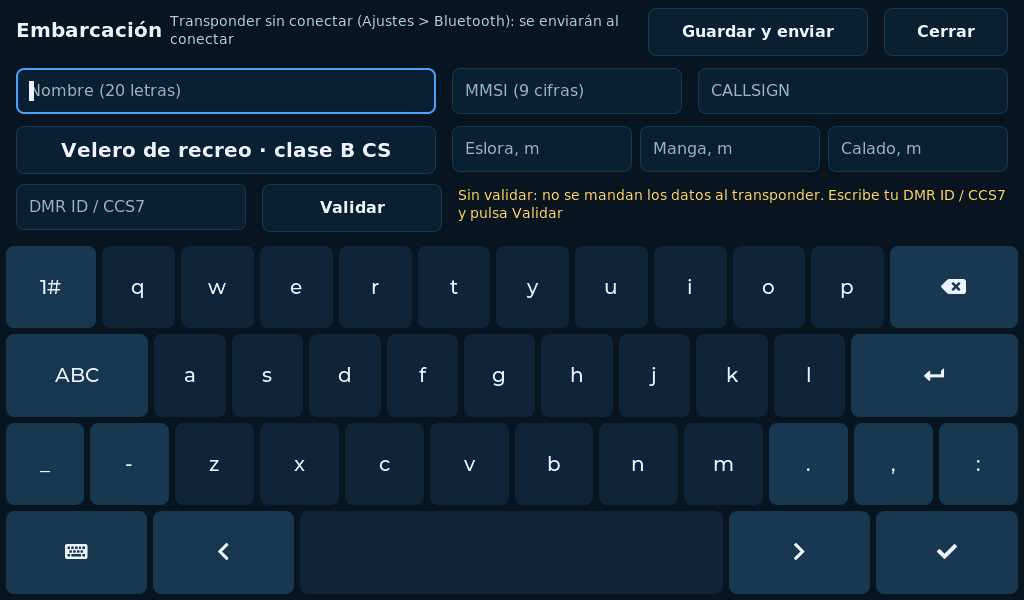
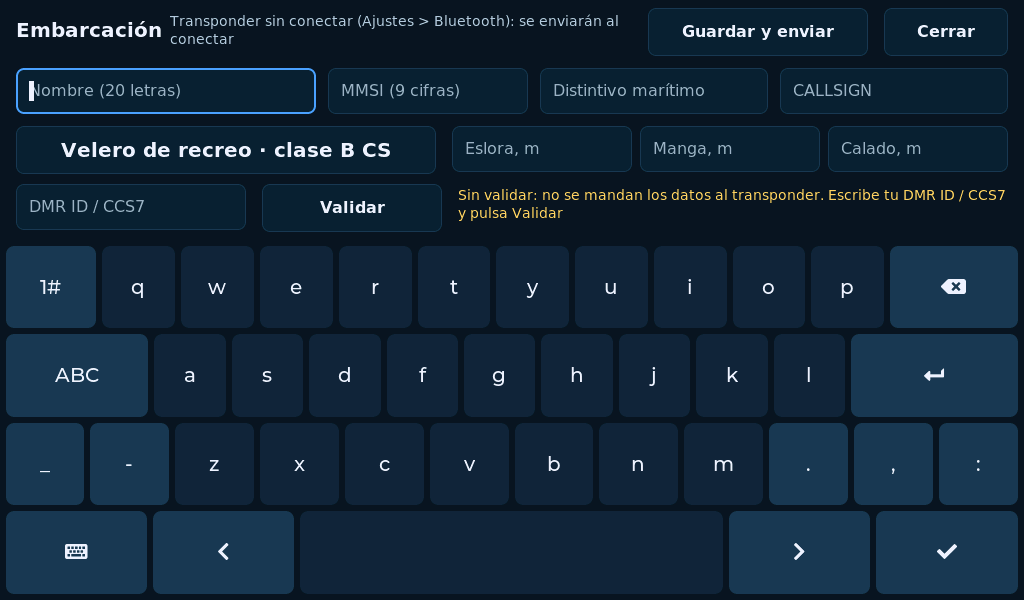
Embarcación: distintivo marítimo del MMSI (campo mc de vessel)
Claude-Session: https://claude.ai/code/session_017B8KvGdeNYekR2x3YiyR1X

Changed region(s): [[0.3125, 0.09, 0.8438, 0.21]]

diff --git a/src/ui.cpp b/src/ui.cpp
@@ -218,7 +218,7 @@ static lv_obj_t* netTa[9] = {};                        // red, clave, servidor, 
 static lv_obj_t* netKb = nullptr;
 static lv_obj_t* netKindLbl = nullptr;
 static lv_obj_t* vesScr = nullptr;                      // Ajustes > Embarcacion
-static lv_obj_t* vesTa[7] = {};                         // nombre, MMSI, CALLSIGN, eslora, manga, calado, DMR ID / CCS7
+static lv_obj_t* vesTa[8] = {};                         // nombre, MMSI, CALLSIGN, eslora, manga, calado, DMR ID / CCS7, distintivo maritimo
 static lv_obj_t* vesLic = nullptr;                      // licencia (RadioID)
 static lv_obj_t* vesKb = nullptr;
 static lv_obj_t* vesTypeLbl = nullptr;
@@ -2021,6 +2021,7 @@ static void openVessel() {
     snprintf(b, sizeof(b), "%09lu", (unsigned long)v.vesselMmsi);
     lv_textarea_set_text(vesTa[1], v.vesselMmsi ? b : "");
     lv_textarea_set_text(vesTa[2], v.vesselCall);
+    lv_textarea_set_text(vesTa[7], v.vesselMCall);
     snprintf(b, sizeof(b), "%d", v.vesselLen);
     lv_textarea_set_text(vesTa[3], v.vesselLen ? b : "");
     snprintf(b, sizeof(b), "%d", v.vesselBeam);
@@ -2048,6 +2049,12 @@ static void onVesBtn(lv_event_t* e) {
         if (!plotter::vessel::validMmsi(v.vesselMmsi)) v.vesselMmsi = 0;
         snprintf(v.vesselCall, sizeof(v.vesselCall), "%s", lv_textarea_get_text(vesTa[2]));
         for (char* c = v.vesselCall; *c; c++) { *c = (char)toupper((unsigned char)*c); if (*c == '-') { *c = 0; break; } }
+        size_t mk = 0;                                    // distintivo maritimo: A-Z 0-9, maximo 7
+        for (const char* c = lv_textarea_get_text(vesTa[7]); *c && mk + 1 < sizeof(v.vesselMCall); c++) {
+            const char u = (char)toupper((unsigned char)*c);
+            if ((u >= 'A' && u <= 'Z') || (u >= '0' && u <= '9')) v.vesselMCall[mk++] = u;
+        }
+        v.vesselMCall[mk] = 0;
         auto clampi = [](int x, int lo, int hi) { return x < lo ? lo : (x > hi ? hi : x); };
         v.vesselLen = clampi(atoi(lv_textarea_get_text(vesTa[3])), 0, 999);
         v.vesselBeam = clampi(atoi(lv_textarea_get_text(vesTa[4])), 0, 126);
@@ -2110,9 +2117,10 @@ static void makeVessel() {
     lv_obj_set_pos(b, 648, 8);
     b = textButton(vesScr, "Cerrar", 124, 48, onVesBtn, 2);
     lv_obj_set_pos(b, 884, 8);
-    vesField(0, 16, 68, 420, "Nombre (20 letras)", 20, nullptr);
-    vesField(1, 452, 68, 230, "MMSI (9 cifras)", 9, "0123456789");
-    vesField(2, 698, 68, 310, "CALLSIGN", 6, nullptr);
+    vesField(0, 16, 68, 300, "Nombre (20 letras)", 20, nullptr);
+    vesField(1, 328, 68, 200, "MMSI (9 cifras)", 9, "0123456789");
+    vesField(7, 540, 68, 228, "Distintivo mar\xC3\xADtimo", 7, nullptr);
+    vesField(2, 780, 68, 228, "CALLSIGN", 6, nullptr);
     b = textButton(vesScr, "", 420, 48, onVesBtn, 0);
     lv_obj_set_pos(b, 16, 126);
     vesTypeLbl = lv_obj_get_child(b, 0);

diff --git a/test/host/test_core.cpp b/test/host/test_core.cpp
@@ -1797,7 +1797,10 @@ static void testVessel() {
     CHECK(configured(a) && !configured(Data()));
     char b[256];
     size_t n = setCommand(a, true, b, sizeof(b));
-    CHECK(n > 0 && std::string(b) == "{\"c\":\"vessel\",\"mmsi\":224123456,\"n\":\"Sea Breeze\",\"call\":\"EA7JRS\",\"t\":0,\"len\":12,\"beam\":4,\"dr\":1.8}");
+    CHECK(n > 0 && std::string(b) == "{\"c\":\"vessel\",\"mmsi\":224123456,\"n\":\"Sea Breeze\",\"call\":\"EA7JRS\",\"mc\":\"\",\"t\":0,\"len\":12,\"beam\":4,\"dr\":1.8}");
+    Data m = a; snprintf(m.mcall, sizeof(m.mcall), "EBXY");
+    setCommand(m, true, b, sizeof(b));
+    CHECK(std::strstr(b, "\"mc\":\"EBXY\"") != nullptr && !same(a, m));
     Data c = a; c.type = 2;
     setCommand(c, true, b, sizeof(b));
     CHECK(std::strstr(b, "\"t\":") == nullptr);                 // clase A a un transpondedor de clase B: sin tipo
@@ -1812,7 +1815,7 @@ static void testVessel() {
     CHECK(std::strstr(b, "\"mmsi\":0,") != nullptr);
 
     Data r; bool cb = false;
-    CHECK(parseEvent("{\"e\":\"vessel\",\"b\":true,\"ok\":true,\"i\":3,\"act\":true,\"call\":\"EA7JRS-5\",\"mmsi\":224123456,\"n\":\"SEA BREEZE\",\"t\":0,\"cls\":\"C\",\"st\":36,\"len\":12,\"beam\":4,\"dr\":1.8}", r, cb));
+    CHECK(parseEvent("{\"e\":\"vessel\",\"b\":true,\"ok\":true,\"i\":3,\"act\":true,\"call\":\"EA7JRS-5\",\"mmsi\":224123456,\"n\":\"SEA BREEZE\",\"mc\":\"\",\"t\":0,\"cls\":\"C\",\"st\":36,\"len\":12,\"beam\":4,\"dr\":1.8}", r, cb));
     CHECK(cb && r.mmsi == 224123456 && std::strcmp(r.name, "SEA BREEZE") == 0 && r.draftDm == 18 && r.lengthM == 12 && r.type == 0);
     CHECK(same(a, r));                                            // SSID y mayusculas no cuentan
     CHECK(!parseEvent("{\"e\":\"vessel\",\"b\":false,\"ok\":false}", r, cb) && !cb);

diff --git a/lib/plotter_core/src/vessel.cpp b/lib/plotter_core/src/vessel.cpp
@@ -55,7 +55,7 @@ bool same(const Data& a, const Data& b) {
     char ca[10], cb[10];
     baseCall(a.call, ca, sizeof(ca));
     baseCall(b.call, cb, sizeof(cb));
-    return a.mmsi == b.mmsi && sameText(a.name, b.name) && strcmp(ca, cb) == 0 && a.type == b.type
+    return a.mmsi == b.mmsi && sameText(a.name, b.name) && strcmp(ca, cb) == 0 && sameText(a.mcall, b.mcall) && a.type == b.type
         && a.lengthM == b.lengthM && a.beamM == b.beamM && a.draftDm == b.draftDm;
 }
 
@@ -68,6 +68,7 @@ size_t setCommand(const Data& d, bool classBOnly, char* out, size_t size) {
     char c[10];
     baseCall(d.call, c, sizeof(c));
     if (c[0]) put(s, "call", c);
+    put(s, "mc", d.mcall);
     if (!classBOnly || classB(d.type)) put(s, "t", (long)d.type);
     put(s, "len", (long)d.lengthM);
     put(s, "beam", (long)d.beamM);
@@ -87,6 +88,7 @@ bool parseEvent(const std::string& line, Data& out, bool& classBOnly) {
     Data d;
     snprintf(d.name, sizeof(d.name), "%s", v["n"].str().c_str());
     snprintf(d.call, sizeof(d.call), "%s", v["call"].str().c_str());
+    snprintf(d.mcall, sizeof(d.mcall), "%s", v["mc"].str().c_str());
     d.mmsi    = (uint32_t)v["mmsi"].num(0);
     d.type    = (int)v["t"].num(0);
     d.lengthM = (int)v["len"].num(0);

diff --git a/src/vessel_link.cpp b/src/vessel_link.cpp
@@ -20,6 +20,7 @@ vessel::Data local() {
     vessel::Data d;
     snprintf(d.name, sizeof(d.name), "%s", v.vesselName);
     snprintf(d.call, sizeof(d.call), "%s", v.vesselCall);
+    snprintf(d.mcall, sizeof(d.mcall), "%s", v.vesselMCall);
     d.mmsi = v.vesselMmsi;
     d.type = v.vesselType;
     d.lengthM = v.vesselLen;
@@ -36,6 +37,7 @@ static void adopt(const vessel::Data& r) {
     for (; r.call[k] && r.call[k] != '-' && k + 1 < sizeof(call); k++) call[k] = r.call[k];
     call[k] = 0;
     snprintf(v.vesselCall, sizeof(v.vesselCall), "%s", call);
+    snprintf(v.vesselMCall, sizeof(v.vesselMCall), "%s", r.mcall);
     v.vesselMmsi = r.mmsi;
     v.vesselType = (r.type >= 0 && r.type < vessel::typeCount()) ? r.type : 0;
     v.vesselLen = r.lengthM;

diff --git a/src/settings.cpp b/src/settings.cpp
@@ -45,6 +45,7 @@ void load() {
     p.getString("vName", v.vesselName, sizeof(v.vesselName));
     v.vesselMmsi = p.getUInt("vMmsi", 0);
     p.getString("vCall", v.vesselCall, sizeof(v.vesselCall));
+    p.getString("vMCall", v.vesselMCall, sizeof(v.vesselMCall));
     v.vesselType = p.getInt("vType", 0);
     v.vesselLen = p.getInt("vLen", 0);
     v.vesselBeam = p.getInt("vBeam", 0);
@@ -103,6 +104,7 @@ void save() {
     p.putString("vName", v.vesselName);
     p.putUInt("vMmsi", v.vesselMmsi);
     p.putString("vCall", v.vesselCall);
+    p.putString("vMCall", v.vesselMCall);
     p.putInt("vType", v.vesselType);
     p.putInt("vLen", v.vesselLen);
     p.putInt("vBeam", v.vesselBeam);

diff --git a/lib/plotter_core/src/vessel.h b/lib/plotter_core/src/vessel.h
@@ -21,6 +21,7 @@ struct Data {
     char     name[21] = "";         // nombre (AIS: 20 caracteres)
     uint32_t mmsi     = 0;          // 0 = sin MMSI
     char     call[10] = "";         // indicativo APRS base (el transpondedor le pone el SSID del tipo de barco)
+    char     mcall[8] = "";         // distintivo de llamada maritimo del MMSI (vacio = el indicativo APRS)
     int      type     = 0;          // tipo del perfil nautico AIS (0 velero de recreo ... 16 otro buque)
     int      lengthM  = 0;          // eslora, m
     int      beamM    = 0;          // manga, m

diff --git a/src/settings.h b/src/settings.h
@@ -38,6 +38,7 @@ struct Values {
     char vesselName[21] = "";
     uint32_t vesselMmsi = 0;
     char vesselCall[10] = "";       // indicativo APRS sin SSID
+    char vesselMCall[8] = "";       // distintivo de llamada maritimo del MMSI
     int vesselType = 0;             // tipo del perfil nautico AIS (0 velero de recreo, 1 lancha de recreo...)
     int vesselLen = 0;              // eslora, m
     int vesselBeam = 0;             // manga, m

diff --git a/CHANGELOG.md b/CHANGELOG.md
@@ -1,6 +1,7 @@
 # Changelog
 
 ## Sin publicar
+- **Distintivo marítimo** del MMSI en Ajustes > Embarcación: se manda al transponder (campo `mc` de `vessel`), que lo pone en los datos estáticos AIS.
 - **Validación del CALLSIGN en RadioID.net** (como en la app): Ajustes > Embarcación, DMR ID / CCS7 y *Validar*. Sin CALLSIGN validado no se mandan los datos del barco al transponder. Se guarda y se revisa cada 90 días. Núcleo `callsign` (mismas pruebas que `CallsignCheck` de la app); `net::requestGet` / `net::takeGet` en `lib/aprs_links`.
 - **Ajustes > Embarcación** (nombre, MMSI, indicativo APRS, tipo, eslora, manga y calado): se mantienen iguales en el **APRS LoRa+ MAPRS transponder** (o un tracker con el perfil náutico AIS) enlazado por Bluetooth, con la orden y el evento `vessel` de su servicio de control. El plotter manda; sin datos propios, toma los del transponder. Núcleo `vessel`; `ble::command` y `ble::readEvent` en `lib/aprs_links` (copiar a la Display y al rotor). El botón de red pasa a llamarse «Red: WiFi y TCP».
 - **Avisos oficiales por la WiFi** (`lib/aprs_links/alerts_net`, tarea propia): AEMET (RSS de Meteoalerta), MeteoAlarm (por país), NWS (EE. UU.), tsunami.gov, terremotos (USGS, EMSC) y tiempo espacial (SWPC). Ventana como las demás alertas y resumen en la pestaña Meteo. *Ajustes > Red*: zonas y país. Núcleo: `alerts`, `minijson`, `same` (NOAA Weather Radio).

diff --git a/docs/USER_MANUAL_EN.md b/docs/USER_MANUAL_EN.md
@@ -224,7 +224,7 @@ fraction, rise and set) for the day at the boat's position, in UTC.
 | **Mapa base** | OpenSeaMap, IHM, IGN or aerial imagery; each reads its own folder on the card |
 | **NMEA 2000** | Listening to the network over CAN |
 | **Red: WiFi y TCP** | Network screen, with a keyboard |
-| **Embarcación** (Vessel) | Vessel data: name, MMSI, CALLSIGN, type, length, beam and draught, and the CALLSIGN check |
+| **Embarcación** (Vessel) | Vessel data: name, MMSI, «Distintivo marítimo» (maritime call sign of the ship station licence with the MMSI), CALLSIGN (amateur radio callsign), type, length, beam and draught, and the CALLSIGN check |
 | **Bluetooth** | Link with the tracker, the gateway or the wind instrument |
 
 ![Embarcación](img/embarcacion.png)

diff --git a/docs/MANUAL_USUARIO.md b/docs/MANUAL_USUARIO.md
@@ -217,7 +217,7 @@ horas de salida y puesta) del día en la posición del barco, en hora UTC.
 | **Mapa base** | OpenSeaMap, IHM, IGN u ortofoto; cada uno lee su carpeta de la tarjeta |
 | **NMEA 2000** | Escucha de la red por el CAN |
 | **Red: WiFi y TCP** | Pantalla de red, con teclado |
-| **Embarcación** | Datos del barco: nombre, MMSI, CALLSIGN, tipo, eslora, manga y calado, y la validación del CALLSIGN |
+| **Embarcación** | Datos del barco: nombre, MMSI, distintivo marítimo (el de la licencia de la estación de barco del MMSI), CALLSIGN (indicativo de radioaficionado), tipo, eslora, manga y calado, y la validación del CALLSIGN |
 | **Bluetooth** | Enlace con el tracker, la pasarela o el instrumento de viento |
 
 ![Embarcación](img/embarcacion.png)

diff --git a/CLAUDE.md b/CLAUDE.md
@@ -492,7 +492,7 @@ Maquetas (lienzo Design, cuatro páginas por fases): https://claude.ai/artifact/
   `database.radioid.net/api/dmr/user/?callsign=`, DMR ID / CCS7 tecleado, revisión a los 90 días), `src/licence.*` (NVS
   `licCall`, `licIds`, `licName`, `licCtry`, `licAt`), `net::requestGet` / `takeGet` (HTTPS de una vez en la tarea de red).
   Sin validar, `vessel_link` no manda `vessel` (estado `NOT_LICENSED`). Campo «CALLSIGN» (antes «Indicativo APRS (sin SSID)»).
-  1697 comprobaciones.
+  1697 comprobaciones. Casilla «Distintivo marítimo» del MMSI (NVS `vMCall`, campo `mc` de `vessel`; 1698).
 
 ## Siguiente
 1. Hechos Instrumentos, Carta (teselas, ir a, waypoints, MOB), Radar AIS, alertas y Ajustes básicos (ver Estado). Rutas y
